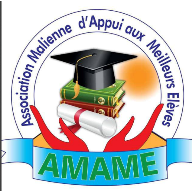
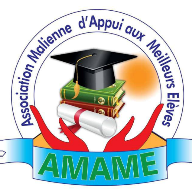
Icônes hors du cache hors ligne, liseré effacé, ménage Nginx (R3, E6)
- vite.config.ts : favicons et icônes du manifeste retirés du précache
  (includeManifestIcons: false, globIgnores) ; elles pesaient la moitié du
  téléchargement hors ligne de chaque visiteur (~1 021 → ~496 Kio).
- Icônes PNG : liseré de numérisation effacé (bande grise à gauche, lignes
  du haut et du bas) en prolongeant la colonne ou la ligne saine voisine,
  puis recompression sans perte (512 px : 369 → 298 Kio).
- nginx.conf, uploads-disk.conf : « expires » retiré là où add_header
  Cache-Control fixe déjà la durée (deux Cache-Control et un Expires).

Image frontend-v1.16 (étiquette par défaut dans docker-compose.yml et CLAUDE.md).

Changed region(s): [[0.0, 0.0, 0.0312, 1.0]]

diff --git a/frontend/vite.config.ts b/frontend/vite.config.ts
@@ -109,7 +109,10 @@ export default defineConfig(({ mode }) => {
       svgr(),
       VitePWA({
         registerType: 'autoUpdate',
-        includeAssets: ['favicon.ico', 'apple-touch-icon.png', 'web-app-manifest-192x192.png', 'web-app-manifest-512x512.png'],
+        // Icônes hors du précache (docs/06, mesure du 21 novembre) : elles pesaient la moitié du
+        // téléchargement hors ligne de chaque visiteur (526 Kio sur ~1 Mio), alors qu'elles ne servent
+        // qu'à l'onglet et à l'installation sur l'écran d'accueil, où le navigateur les demande lui-même.
+        includeManifestIcons: false,
         manifest: {
           name: "AMAME — Association Malienne d'Appui aux Meilleurs Élèves",
           short_name: 'AMAME',
@@ -143,7 +146,8 @@ export default defineConfig(({ mode }) => {
           // Les polices latin-ext (ɛ ɔ ɲ ŋ…) ne servent qu'aux pages qui contiennent ces lettres : le
           // navigateur les demande alors lui-même. Précachées, elles seraient téléchargées par tous
           // (120 Ko). Hors ligne, ces lettres s'affichent dans la police du système.
-          globIgnores: ['**/amame-uploads/**', 'images/**', 'config.js', 'assets/*-latin-ext-*.woff2'],
+          globIgnores: ['**/amame-uploads/**', 'images/**', 'config.js', 'assets/*-latin-ext-*.woff2',
+            'favicon.ico', 'favicon-96x96.png', 'apple-touch-icon.png', 'web-app-manifest-*.png'],
           // Une navigation vers un fichier (média, fichier privé servi par l'API) va au serveur, pas
           // à l'application : sinon index.html s'afficherait à la place, et la redirection de
           // /uploads/ vers le CDN ne serait pas suivie (constat C14).

diff --git a/docs/06-suites-hors-perimetre.md b/docs/06-suites-hors-perimetre.md
@@ -65,6 +65,7 @@ Pages concernées (requêtes React Query sans traitement d'erreur) : Articles, A
 | --- | --- | --- | --- |
 | **R1** — lisibilité et détails | S1 (4 zones), S2, `no-cache` de `sw.js` / `registerSW.js` dans `nginx.conf`, S5 (si confirmé), S6 | `frontend-v1.15` | chaque texte des 4 zones ≥ 4,5:1 (≥ 3:1 grand titre) au pire endroit, à 390, 768 et 1440 px ; champ en erreur jamais sous la barre (390 px) ; `nginx -t` correct, en-têtes de `sw.js` ; `tsc` sans erreur |
 | **R2** — pages publiques | S4 | `frontend-v1.15` (avec R1, voir E5) | pour chaque page : réponse 500 et réseau coupé → message et « Réessayer », jamais l'état vide ; fiche 404 → « introuvable » ; aucun écran vide (390 et 1440 px) |
+| **R3** — icônes et ménage Nginx (demandé le 21 novembre, hors plan initial) | icônes hors du précache, icônes recompressées sans perte, `expires` en double retiré | `frontend-v1.16` | précache sans icône et transfert réduit ; manifeste et `index.html` inchangés ; site toujours installable ; un seul `Cache-Control` par réponse, `nginx -t` correct |
 | Action de l'équipe | S3 : désactiver *Cache Assets* | aucune | en-têtes de `/config.js` et `/assets/` relus à travers `https://amame.ml` |
 
 Aucune itération ne touche le backend.
@@ -80,6 +81,7 @@ Aucune itération ne touche le backend.
 | E3 | Nginx Proxy Manager : désactiver *Cache Assets* sur `amame.ml` ? | **oui** (plus simple que des *Custom locations*) |
 | E4 | Ajouter à R1 la correction des en-têtes de sécurité perdus dans les `location` de `nginx.conf` qui posent leur propre `add_header` (docs/04, annexe C) ? | **oui** : même fichier, contrôle par `curl` |
 | E5 | Deux images (R1 puis R2) ? | **oui** : R1 est court et visible, R2 touche 17 pages. *Révisé le 20 novembre par l'équipe : « On continue avec le reste du correctif. À la fin, on fera un build et push » : R1 et R2 dans une seule image, `frontend-v1.15`.* |
+| E6 | Grande icône : effacer le liseré gris du bord gauche (4 px) et du haut, présent dans l'image d'origine (plus fin sur les autres icônes) ? | **oui** (décision du 21 novembre) : fait dans R3, sur les quatre icônes PNG |
 
 Hors de ce plan, à décider plus tard : teinte des boutons verts à texte blanc (3,3:1, section 2.1) ; précache PWA de 1,9 Mio (environ 1 Mio transféré), dont la moitié pour l'icône de 512 px (mesure du 21 novembre, journal) ; en-têtes `Cache-Control` en double dans 5 `location` de `nginx.conf` ; `npm run lint` inutilisable (docs/04, annexe C).
 
@@ -91,6 +93,7 @@ Hors de ce plan, à décider plus tard : teinte des boutons verts à texte blanc
 | --- | --- | --- | --- | --- |
 | R1 | **en production** (décidé : E1, E2, E4, E5) | `frontend-v1.15` | 2026-11-20 | commit `a3494fc`, voir le journal |
 | R2 | **en production** ; même image que R1 (E5 révisé) | `frontend-v1.15` | 2026-11-20 | commit `a3494fc`, voir le journal |
+| R3 | **code prêt et vérifié**, avec E6 ; commit et construction en cours | `frontend-v1.16` | 2026-11-21 | voir le journal |
 | S3 (équipe) | **fait** : *Cache Assets* décoché sur `amame.ml` | — | 2026-11-21 | confirmé par l'équipe ; contrôle des en-têtes laissé à l'équipe |
 
 ### Journal
@@ -129,3 +132,13 @@ Hors de ce plan, à décider plus tard : teinte des boutons verts à texte blanc
 **2026-11-21 — Rechargement automatique constaté.** Test de l'équipe : un appareil qui avait ouvert `amame.ml` avant le déploiement de `frontend-v1.15` s'est rechargé de lui-même et affiche la nouvelle adresse du pied de page. D9 (rapport 05) fonctionne en production. Tous les points de ce rapport sont faits ; restent seulement les sujets hors plan de la section 4.
 
 **2026-11-21 — Mesure du précache (hors plan).** Build de `a3494fc` dans le dossier temporaire de la session : 117 entrées, 113 adresses distinctes (4 icônes listées deux fois, téléchargées une seule fois). Environ 1,9 Mio de fichiers, soit environ 1 Mio transféré grâce à la compression gzip de Nginx. Répartition du transfert : icônes PNG/ICO **526 Kio** (dont `web-app-manifest-512x512.png` seule 368 Kio, puis l'icône de 192 px 65 Kio et `apple-touch-icon.png` 58 Kio) ; JS et CSS publics et communs 336 Kio ; polices 85 Kio ; administration 58 Kio (31 fichiers) ; espace membre 14 Kio. Correction de l'analyse du 20 novembre : l'administration ne pèse qu'environ 7 % ; le poste principal, ce sont les icônes, jamais compressées. Constat voisin : dans `nginx.conf`, 5 `location` (`/assets/`, `/images/`, `/amame-uploads/`, icônes et images, polices) posent à la fois `expires` et `add_header Cache-Control` ; le navigateur reçoit deux `Cache-Control` de même durée, plus un `Expires`. Sans effet gênant.
+
+**2026-11-21 — R3 : icônes et ménage Nginx.** Demandé par l'équipe après la mesure du précache.
+
+- **Icônes hors du précache** (`vite.config.ts`) : `includeAssets` retiré, `includeManifestIcons: false`, `favicon.ico`, `favicon-96x96.png`, `apple-touch-icon.png` et `web-app-manifest-*.png` dans `globIgnores`. Le navigateur les demande lui-même (onglet, installation sur l'écran d'accueil) ; une application déjà installée garde son icône.
+- **Icônes recompressées sans perte** (Pillow, `optimize`) : 512 px 368,9 → 300,3 Kio, 192 px 65,2 → 57,7 Kio, `apple-touch-icon` 58,0 → 51,6 Kio, `favicon-96x96` 18,9 → 17,0 Kio ; pixels identiques, vérifiés un à un. Écartée : la réduction à 256 couleurs (53 Kio pour la 512 px), qui fait apparaître des bandes dans le soleil et sur le chapeau du logo.
+- **Ménage Nginx** : les 5 `expires` de `nginx.conf` et celui de `docker/uploads-disk.conf` retirés ; la durée reste fixée par `add_header Cache-Control`, valeurs inchangées.
+- **Vérifié** : build de la nouvelle version : 108 entrées (117 avant), aucune icône ; environ 1 389 Kio de fichiers, **~496 Kio transférés au lieu de ~1 021 Kio (−51 %)**. Manifeste et `index.html` annoncent les mêmes icônes. Installabilité Chrome (`install_ab.py`, v1.15 contre la nouvelle version, servies en statique) : aucune erreur dans les deux cas, service worker actif, les quatre icônes PNG en 200. `fetch("/favicon.ico")` échoue depuis une page dans le Chromium de test, mais aussi sur la v1.15 sans service worker (la requête n'atteint pas le serveur ; le fichier s'ouvre normalement dans un onglet et répond 200 à une requête directe) : particularité du navigateur de test, pas du site.
+- **Reste à vérifier** (Docker Desktop arrêté) : `nginx -t` et les en-têtes servis par l'image (un seul `Cache-Control`, plus d'`Expires`), au moment de la construction.
+
+**2026-11-21 — E6 : liseré des icônes effacé.** L'équipe demande d'inclure E6 dans R3. Le défaut vient d'une ancienne numérisation : bande grise à gauche (512 px : 4 colonnes ; 192 et 180 px : 2 ; 96 px : 1), ligne grise et lignes transparentes en haut et en bas (semi-transparentes sur la 96 px). Correction : chaque bande reprend la première colonne ou ligne saine voisine, de sorte que le fond reste blanc et que le ruban bleu, qui touche le bord gauche, continue jusqu'au bord au lieu d'être coupé. Pixels modifiés : 4 588 (512 px), 764 (192 px), 716 (180 px), 286 (96 px), **aucun hors des bandes** ; icônes désormais entièrement opaques ; recompression sans perte ensuite (297,8, 56,9, 50,9 et 16,8 Kio). `favicon.ico` (16, 32 et 48 px), d'une autre source, n'a pas ce défaut : inchangé. Comparaison avant/après sur fond sombre vérifiée à l'œil (script `e6_icons.py` du dossier temporaire de la session).

diff --git a/CLAUDE.md b/CLAUDE.md
@@ -138,7 +138,7 @@ Every upload goes through `UploadValidator`, which reads the type from the file'
 
 **Mobile navigation**: `<BottomNav />` (`src/components/BottomNav.tsx`) is a fixed bottom bar (mobile only, `lg:hidden`) with 4 primary tabs (Home, Bourses, Concours, Orientation) and a "Plus" Sheet for secondary links. The Navbar hamburger was removed — BottomNav is the sole mobile navigation.
 
-**PWA**: Configured via `vite-plugin-pwa` in `vite.config.ts`. Manifest is fully declared in the plugin config (not in a separate file). The `site.webmanifest` in `public/` exists as a fallback reference. Service worker uses `registerType: 'autoUpdate'` with Workbox for caching and `NetworkFirst` strategy for `/api/*` calls. Navigations to `/uploads/` and `/api/` bypass the app shell (`navigateFallbackDenylist`): a media link must reach Nginx (and its redirect to the CDN), a private file opened in a tab must reach the API. After a deployment, `src/utils/appUpdate.ts` (called from `main.tsx`) reloads the page when the new version takes control, at once if nothing was typed, otherwise at the next route change; it also reloads once on `vite:preloadError` (an old lazy chunk that no longer exists).
+**PWA**: Configured via `vite-plugin-pwa` in `vite.config.ts`. Manifest is fully declared in the plugin config (not in a separate file). The `site.webmanifest` in `public/` exists as a fallback reference. Service worker uses `registerType: 'autoUpdate'` with Workbox for caching and `NetworkFirst` strategy for `/api/*` calls. The favicons and the manifest icons are kept out of the precache (`includeManifestIcons: false` and `globIgnores`): they were half of every visitor's offline download, and the browser fetches them itself for the tab and for installation. Navigations to `/uploads/` and `/api/` bypass the app shell (`navigateFallbackDenylist`): a media link must reach Nginx (and its redirect to the CDN), a private file opened in a tab must reach the API. After a deployment, `src/utils/appUpdate.ts` (called from `main.tsx`) reloads the page when the new version takes control, at once if nothing was typed, otherwise at the next route change; it also reloads once on `vite:preloadError` (an old lazy chunk that no longer exists).
 
 **Breakpoints**: Mobile/desktop split is at `lg` (1024px) matching Tailwind's default — consistent across Navbar, BottomNav, Footer padding (`pb-16 lg:pb-0`).
 
@@ -160,7 +160,7 @@ Every upload goes through `UploadValidator`, which reads the type from the file'
 
 **Runtime configuration**: `MEDIA_BASE_URL` and `MEDIA_OPTIMIZER_ENABLED` are read when the container starts, not at build time. `docker/40-runtime-config.sh` rewrites `/config.js` (dev default: `public/config.js`), `index.html` loads it before the app, and `src/utils/runtimeConfig.ts` exposes it. It is excluded from the PWA precache and served with `no-store`. Do not reintroduce a `VITE_*` build variable for a value that differs between environments.
 
-**Nginx headers** (`frontend/nginx.conf`): a `location` that sets its own `add_header` inherits none of the `server` level's. The security headers therefore live in `frontend/docker/security-headers.conf`, included at the `server` level and after the `add_header` of every location (and in `docker/uploads-disk.conf`): a new location with an `add_header` must include it too. `sw.js` and `registerSW.js` are served `no-cache`. In production, Nginx Proxy Manager's "Cache Assets" option on `amame.ml` overrides the site's `Cache-Control` and must stay off (docs/06, S3).
+**Nginx headers** (`frontend/nginx.conf`): a `location` that sets its own `add_header` inherits none of the `server` level's. The security headers therefore live in `frontend/docker/security-headers.conf`, included at the `server` level and after the `add_header` of every location (and in `docker/uploads-disk.conf`): a new location with an `add_header` must include it too. A cache duration is set by `add_header Cache-Control` alone, never with `expires` as well (that sent a second `Cache-Control` and an `Expires`). `sw.js` and `registerSW.js` are served `no-cache`. In production, Nginx Proxy Manager's "Cache Assets" option on `amame.ml` overrides the site's `Cache-Control` and must stay off (docs/06, S3).
 
 **Local dev outside Docker**: `npm run dev` proxies `/api` and `/uploads` to `http://localhost:8080` (`DEV_BACKEND_URL` to override).
 
@@ -172,7 +172,7 @@ Every upload goes through `UploadValidator`, which reads the type from the file'
 
 | Service | Image tag | Exposed port |
 |---|---|---|
-| frontend | `yayacode224/amame:${FRONTEND_IMAGE_TAG}` (default `frontend-v1.15`) | 80 |
+| frontend | `yayacode224/amame:${FRONTEND_IMAGE_TAG}` (default `frontend-v1.16`) | 80 |
 | backend | `yayacode224/amame:${BACKEND_IMAGE_TAG}` (default `backend-v1.7`) | internal only |
 | database | postgres:15-alpine | internal only |
 | pgadmin | dpage/pgadmin4 | 127.0.0.1:5050 |
